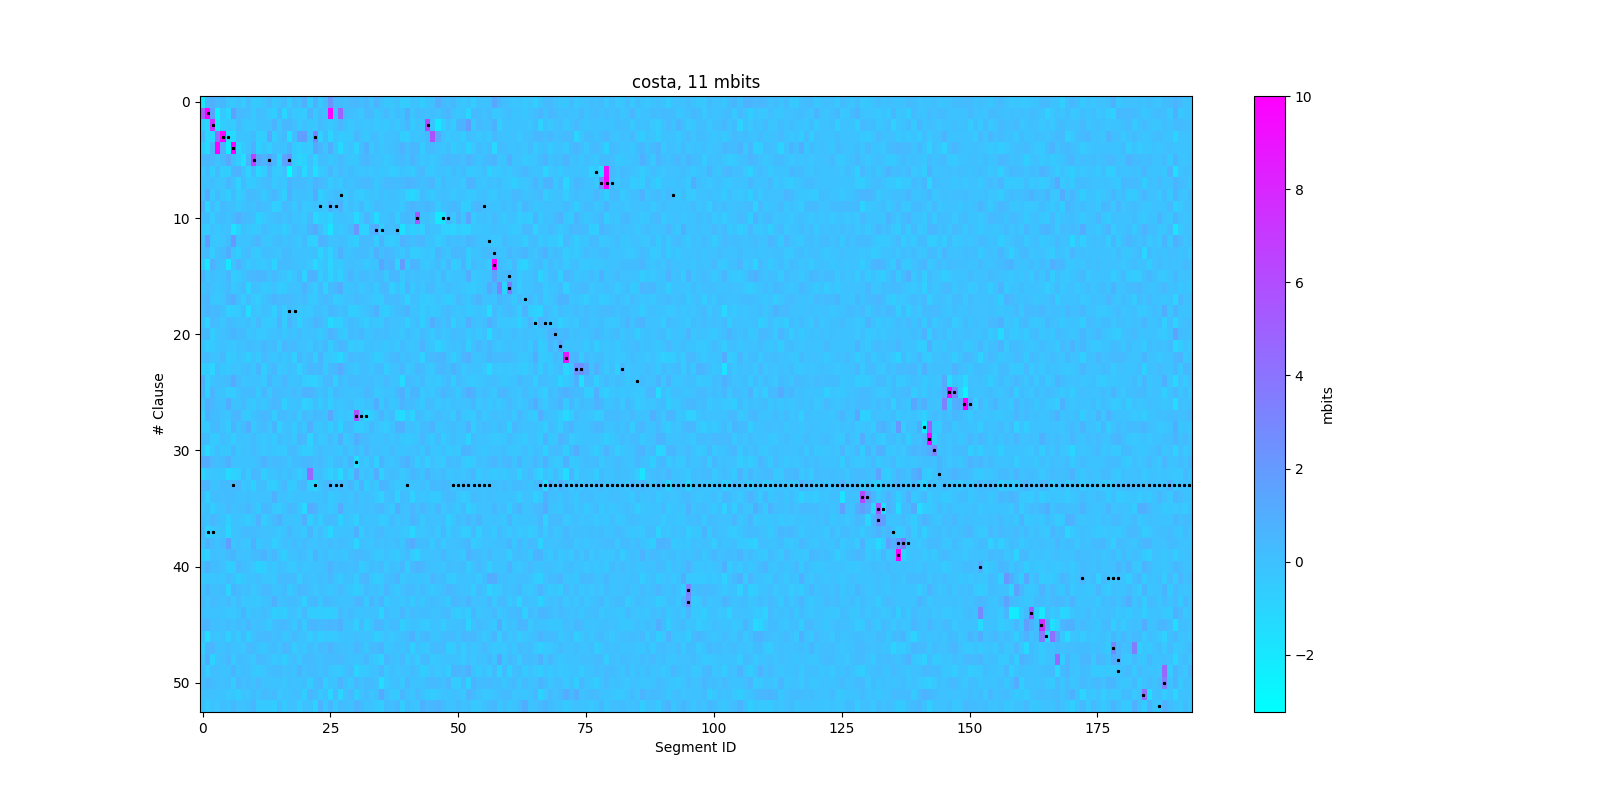
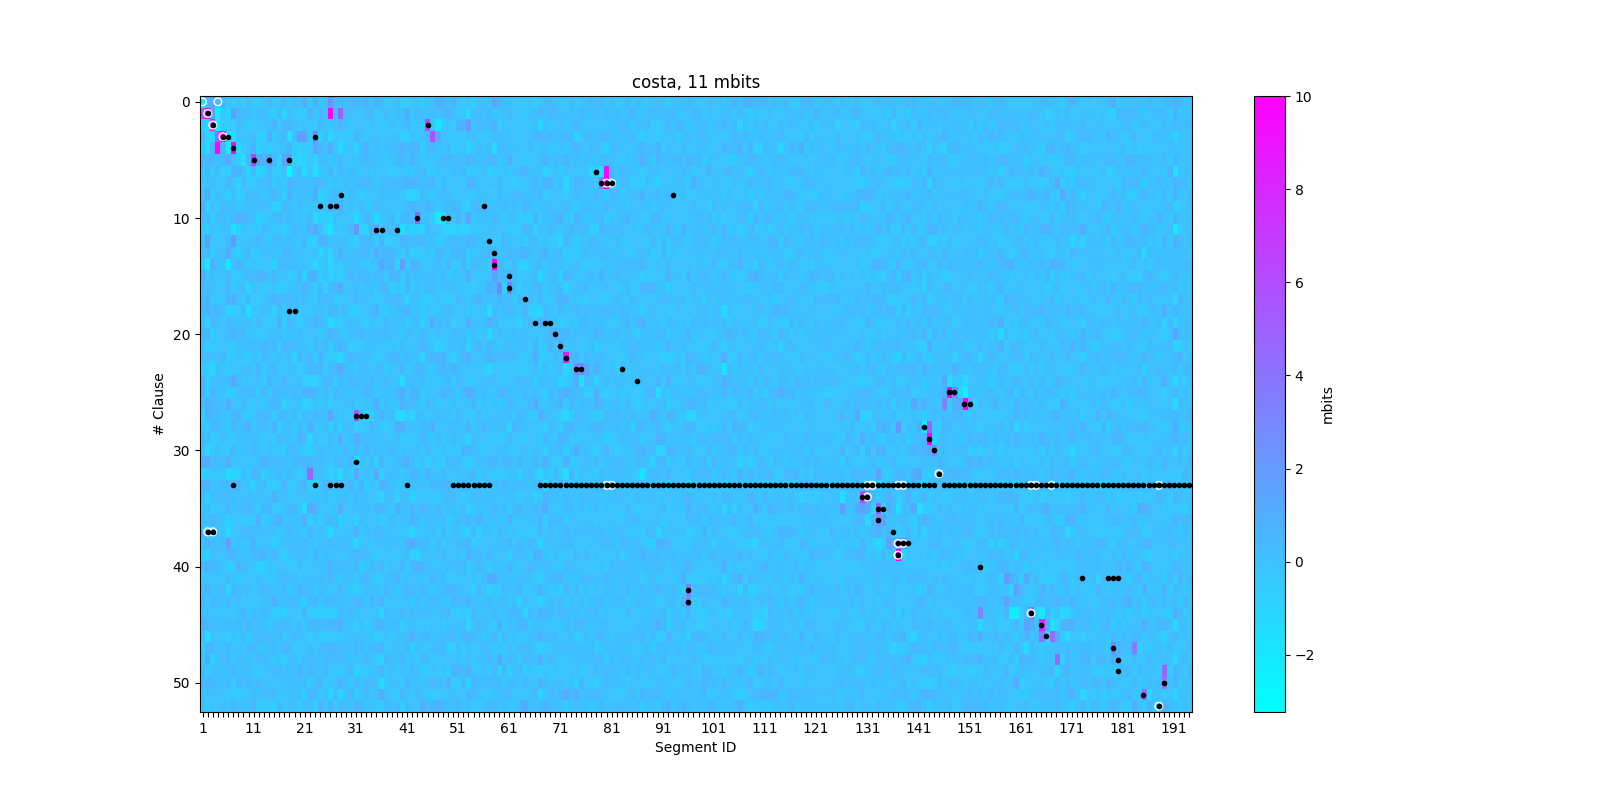
cosmetics

diff --git a/7e71ecbb7830fd69dc78ba1369a452129b88e980fdbb6d63285fbb8f912f/mbits_a_recall_example.html b/7e71ecbb7830fd69dc78ba1369a452129b88e980fdbb6d63285fbb8f912f/mbits_a_recall_example.html
@@ -11,7 +11,44 @@
 <body>
     <header>
         <h1>Calculate meaningful bits for a recall clause vs all the previous ones</h1>
-    <h3>See code at <a
+    <h4>
+        <p>The plots below illustrate how recall clauses influence meaningful bits (which are actually computed as the sum of
+            *natural* log probabilities ln ).</p>
+        
+        <p>Each row represents a clause, denoted as <code>C<sub>i</sub></code>. The cell colors indicate the difference in
+            probabilities for the corresponding segments, obtained from two separate probability calculations:</p>
+        
+        <ol>
+            <li>Using all clauses from <code>C<sub>1</sub></code> to <code>C<sub>i-1</sub></code>.</li>
+            <li>Using all clauses from <code>C<sub>1</sub></code> to <code>C<sub>i</sub></code>.</li>
+        </ol>
+        
+        <p>Black dots represent <strong>"caught"</strong> segments, while white circles mark <strong>"recalled"</strong>
+            segments. Segments that were "recalled" but not "caught" appear in the top row, which serves as a placeholder
+            (<code>xa xa</code>).</p>
+       Prompts:<hr>
+<p>The following two texts, separated by "---", tell the same story with different wording:</p>
+
+<pre>
+        {{ preceding_text1 }}
+        ---
+        {{ narrative }}
+    </pre>
+
+<p>The following two texts, separated by "---", tell the same story with different wording:</p>
+
+<pre>
+        {{ preceding_text2 }}
+        ---
+        {{ narrative }}
+    </pre>
+    <hr
+       
+        </h4>
+       
+       <h3>
+
+            See code at <a
             href="https://github.com/Ilyashn972/llm-narrative-analysis/blob/main/experiments/mbits_a_recall_example.py">
             mbits_a_recall_example.py</a>
     </h3>
